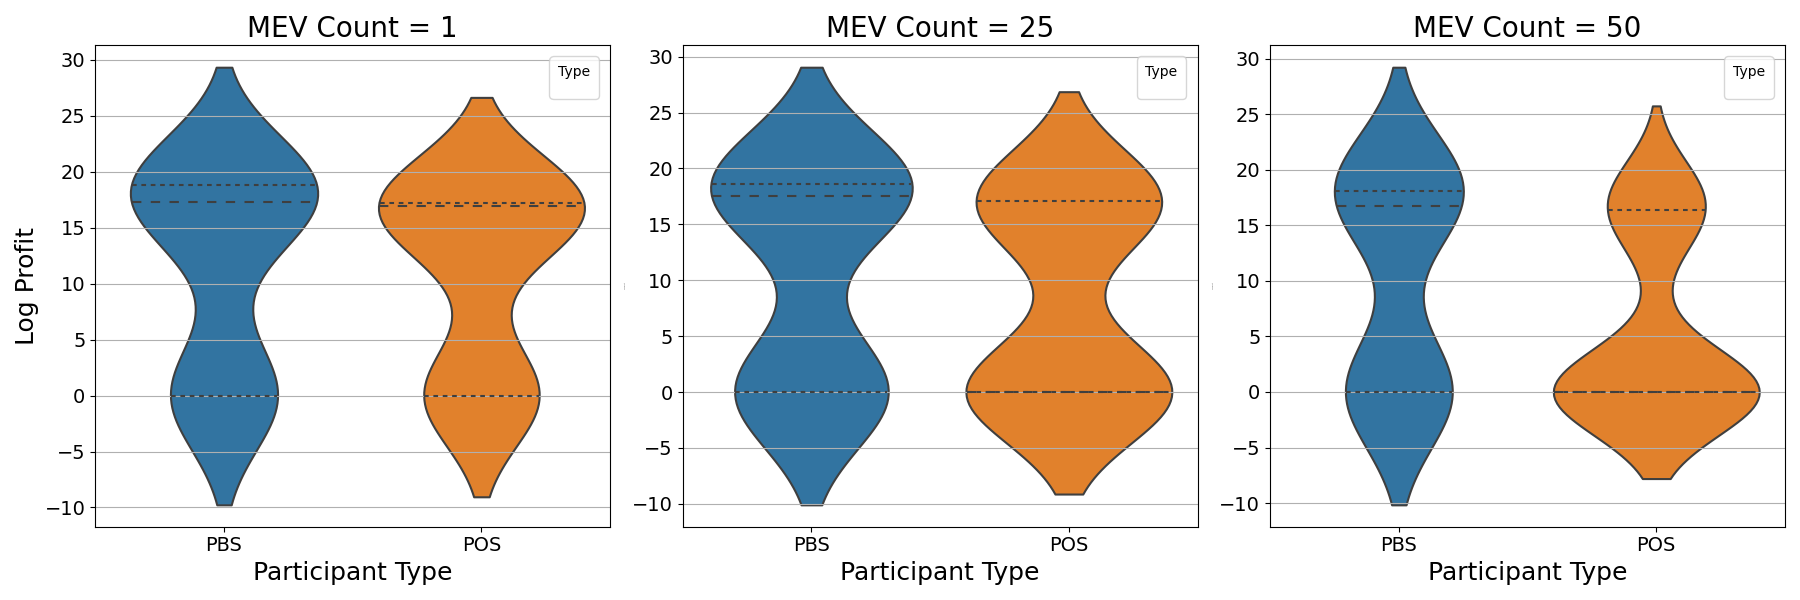
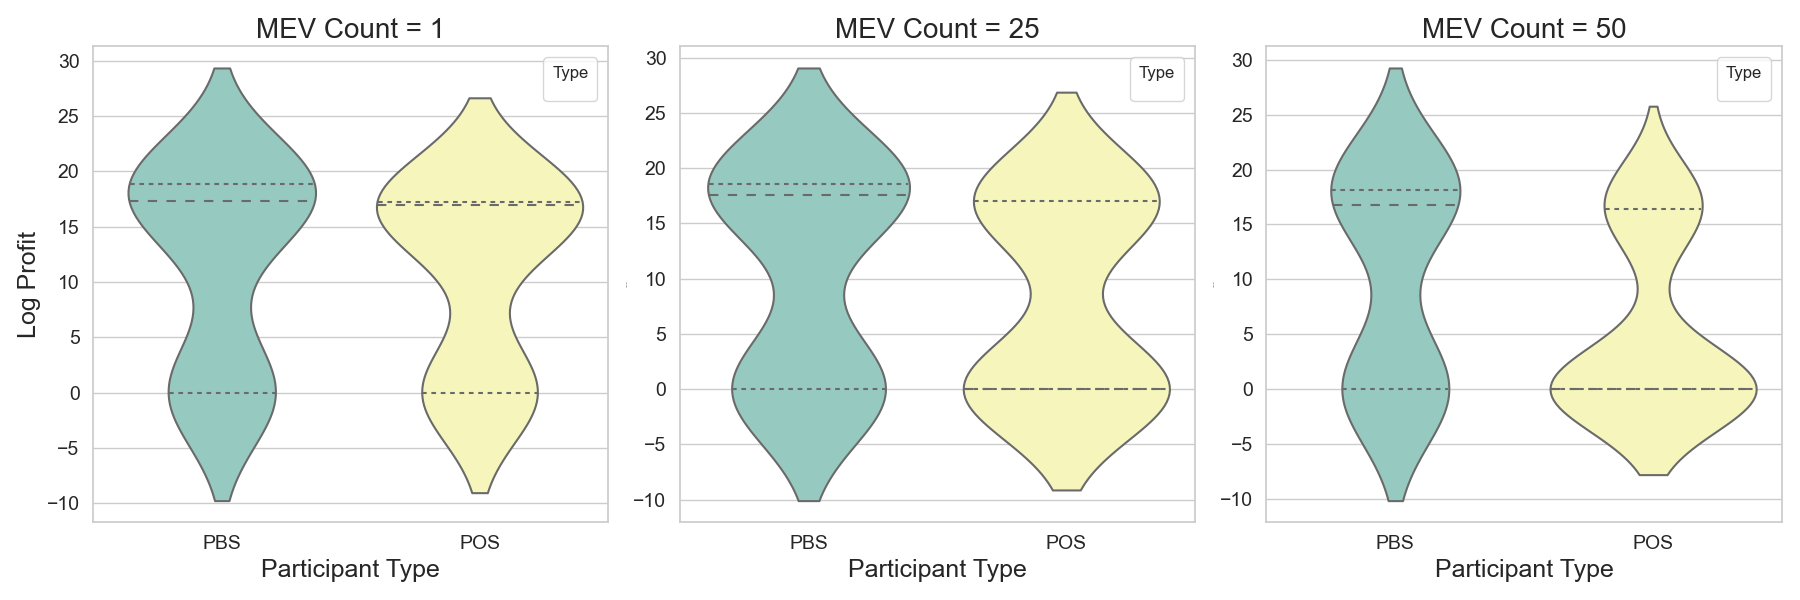
good colour!

diff --git a/plots/new/vary_mev_plots.py b/plots/new/vary_mev_plots.py
@@ -6,6 +6,8 @@ from scipy.signal import savgol_filter
 from scipy.interpolate import interp1d
 import os
 
+sns.set_theme(style="whitegrid")
+
 def compute_gini(array):
     """Compute the Gini coefficient of a numpy array."""
     array = array.flatten()
@@ -70,8 +72,8 @@ def plot_gini_coefficient(data_dir, mev_counts):
     x_pos_new, y_pos_new = interpolate_and_add_noise(mev_counts, smooth_gini_pos, num_points=49)
 
     fig, ax = plt.subplots(figsize=(10, 6))
-    sns.lineplot(x=x_pbs_new, y=y_pbs_new, marker='o', label='PBS', ax=ax)
-    sns.lineplot(x=x_pos_new, y=y_pos_new, marker='o', label='POS', ax=ax)
+    sns.lineplot(x=x_pbs_new, y=y_pbs_new, marker='o', label='PBS', ax=ax, palette="Set3")
+    sns.lineplot(x=x_pos_new, y=y_pos_new, marker='o', label='POS', ax=ax, palette="Set3")
 
     ax.set_xlabel('Number of MEV Builders/Validators', fontsize=20)
     ax.set_ylabel('Gini Coefficient', fontsize=20)
@@ -99,7 +101,7 @@ def plot_profit_distribution(data_dir, mev_counts_to_plot):
                 valid_profits = valid_profits[valid_profits >= 0]  # Ensure no negative values
                 print(f"{system.upper()} MEV {mev_count} valid profits: {valid_profits}")  # Debug print
                 if len(valid_profits) > 0:
-                    sns.kdeplot(valid_profits, ax=axes[i], label=system.upper())
+                    sns.kdeplot(valid_profits, ax=axes[i], label=system.upper(), palette="Set3")
 
         axes[i].set_title(f'MEV Builders/Validators = {mev_count}', fontsize=20)
         axes[i].set_xlabel('Profit', fontsize=20)
@@ -130,7 +132,7 @@ def plot_profit_distribution_violin(data_dir, mev_counts_to_plot):
             combined_profits = pd.concat([pbs_profits, pos_profits], ignore_index=True)
             combined_profits['log_fee'] = np.log1p(combined_profits['fee'])  # Log-transform the fee
 
-            sns.violinplot(data=combined_profits, x='type', y='log_fee', split=True, inner='quart', ax=axes[i])
+            sns.violinplot(data=combined_profits, x='type', y='log_fee', split=True, inner='quart', ax=axes[i], palette="Set3")
             axes[i].set_title(f'MEV Count = {mev_count}', fontsize=20)
             axes[i].set_xlabel('Participant Type', fontsize=18)
             axes[i].set_ylabel('Log Profit', fontsize=18 if i == 0 else 0)
